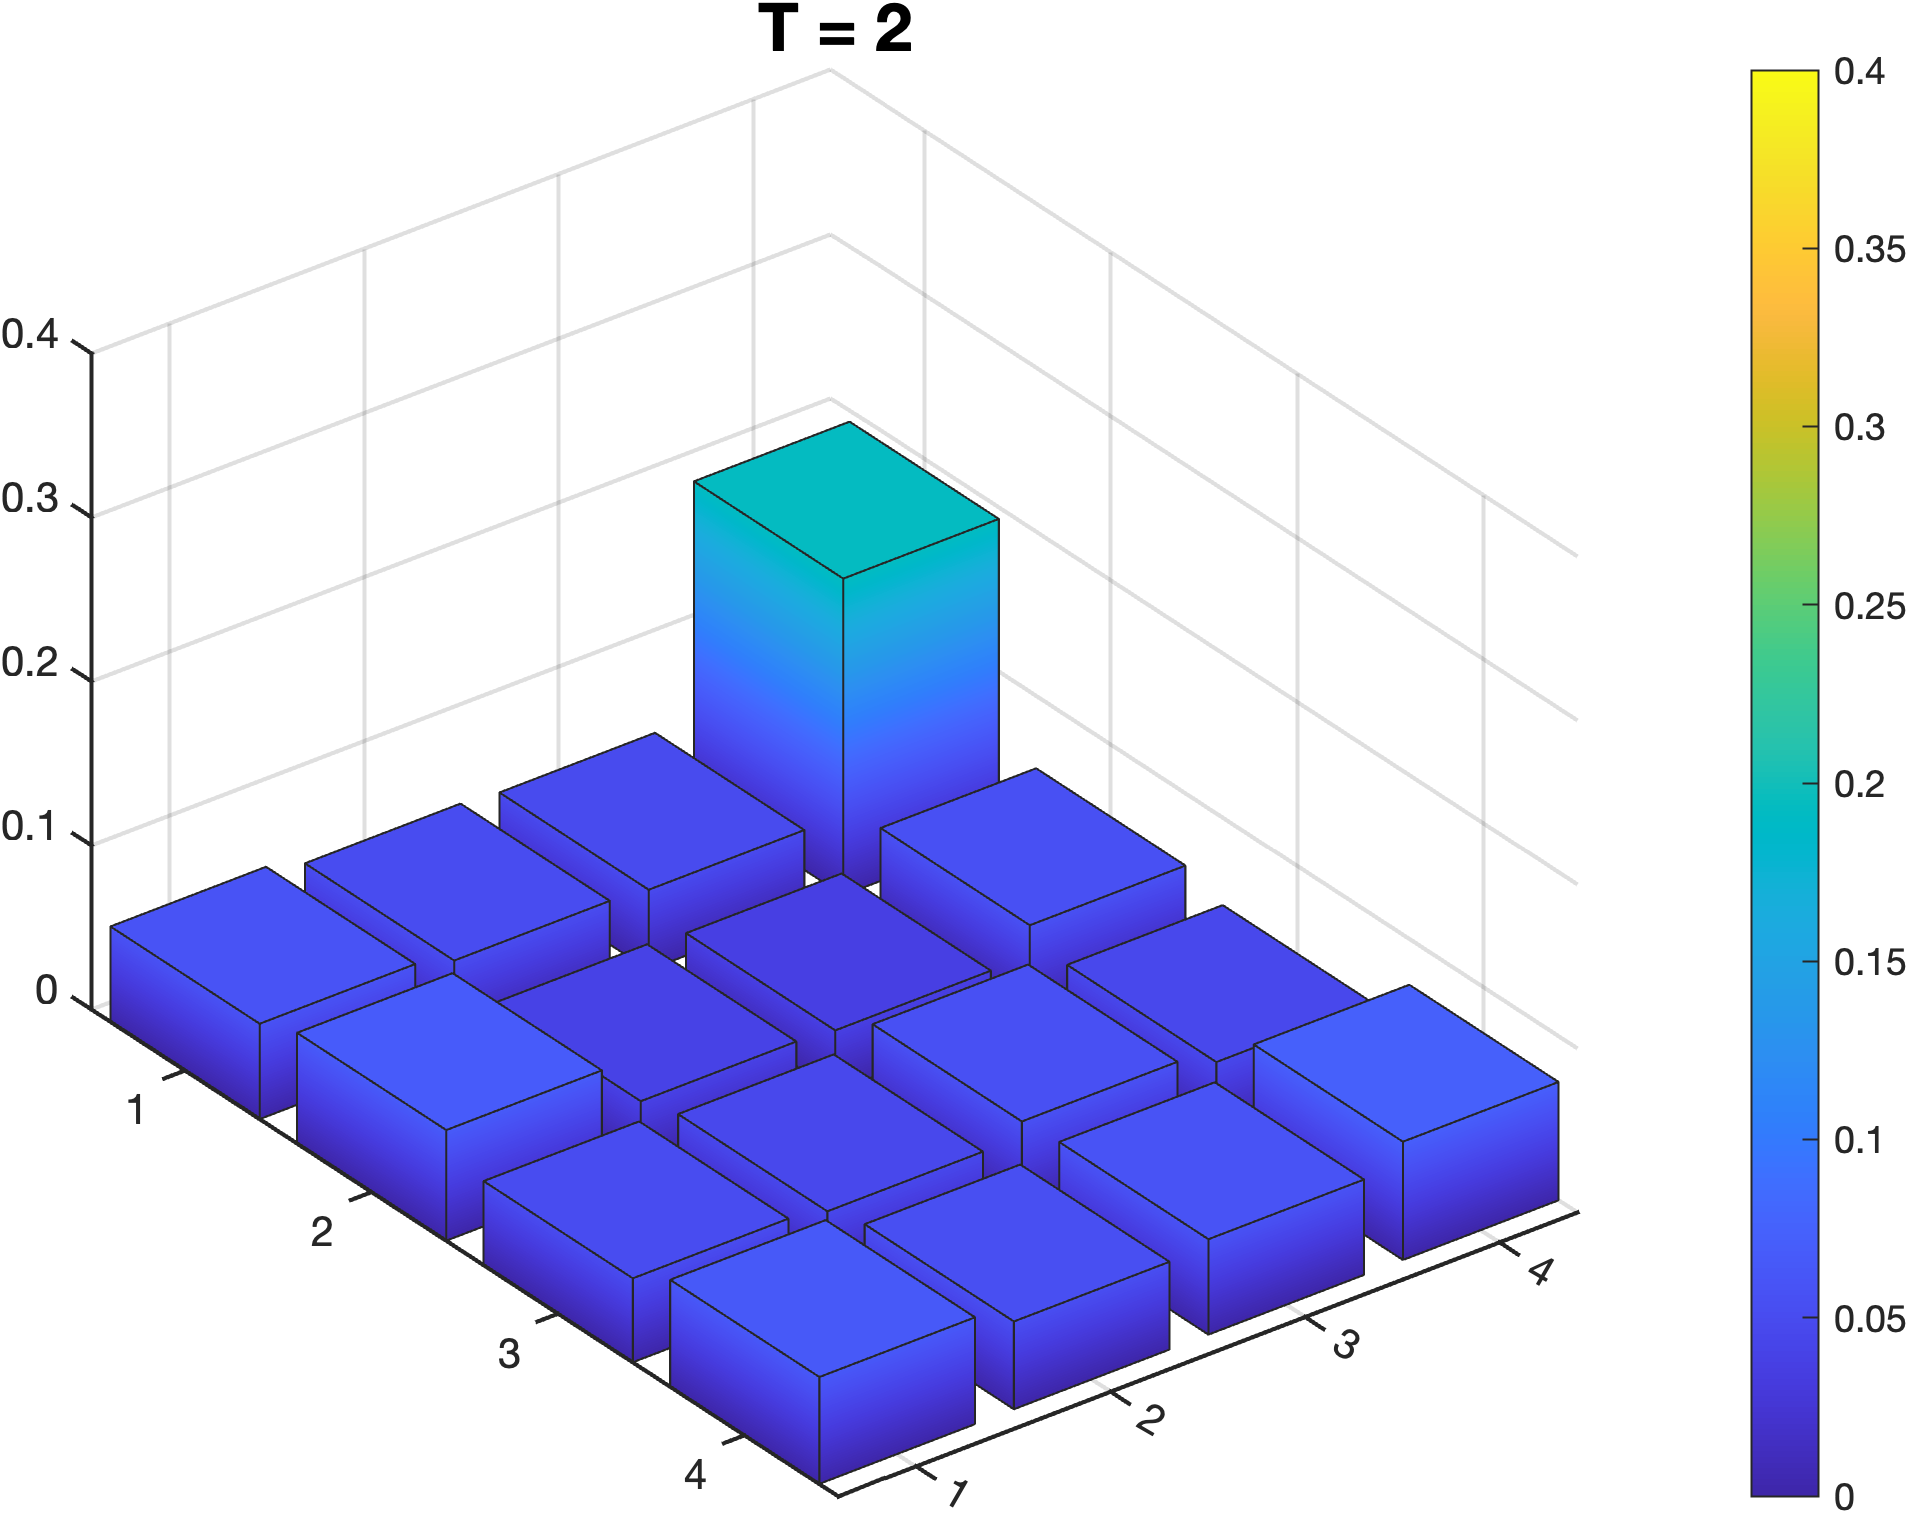
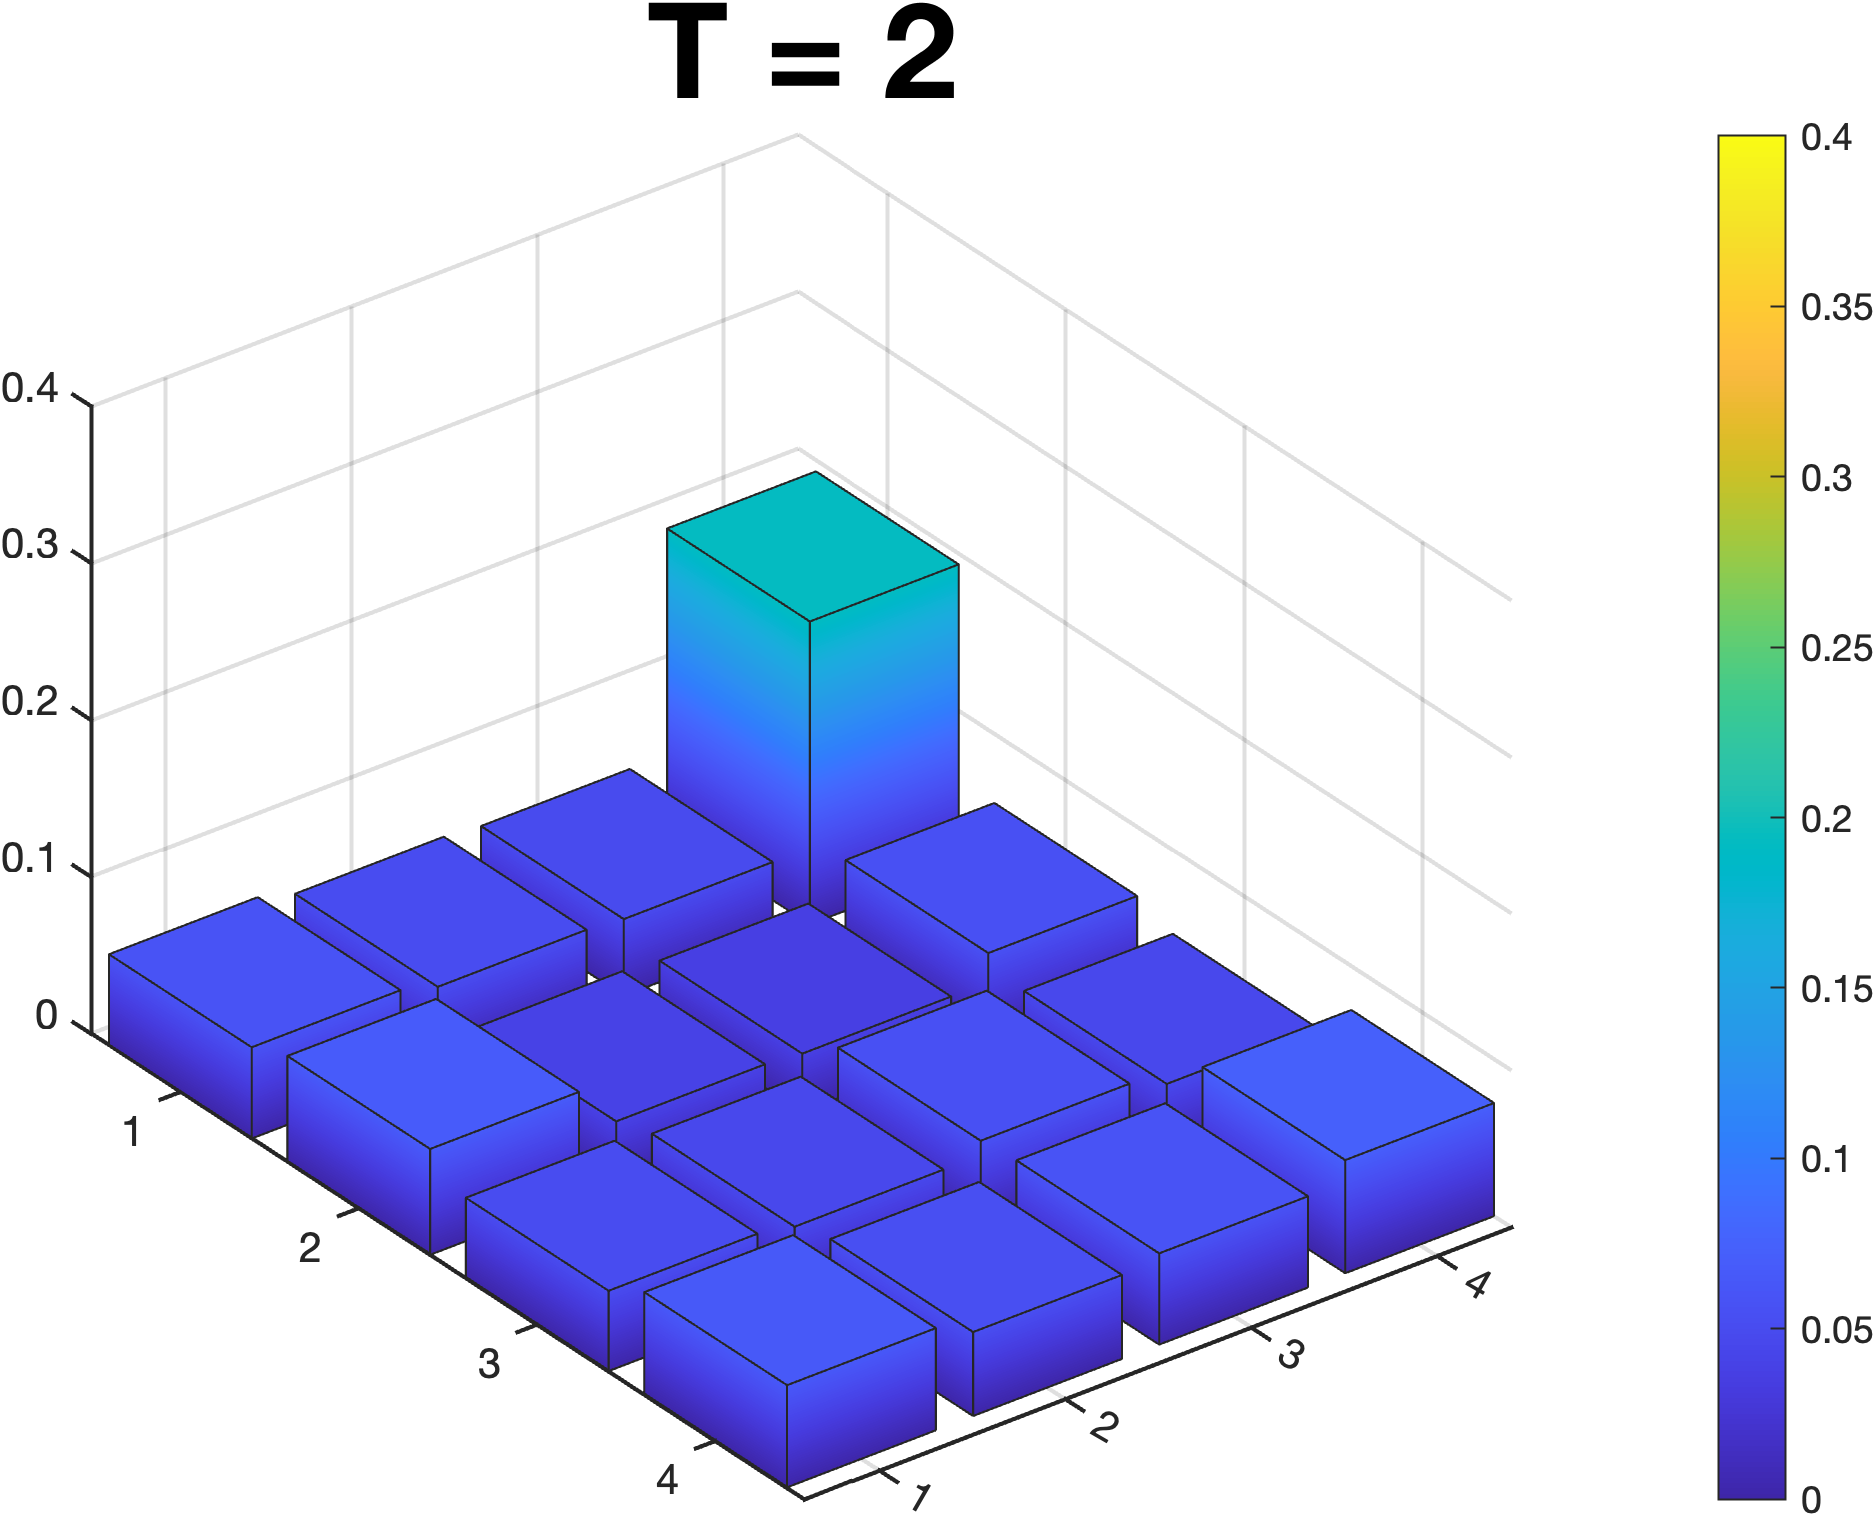
update fig 3-4

diff --git a/spatial_search/4_by_4/plot_4by4.m b/spatial_search/4_by_4/plot_4by4.m
@@ -1,8 +1,9 @@
 load("data.mat")
 
-N = 5;
+N = 4;
 vis_times = [2, 4, 6];
-vis_index = [5, 9, 13];
+vis_index = [3, 6, 8];
+ideal_index = [37, 92, 128];
 
 
 %-- Set default options --%
@@ -14,29 +15,29 @@ set(0,'DefaultAxesFontSize', 10, ...
 
 for i = 1:3
     figure(i);
-    idx = vis_index(i);
+    idx = ideal_index(i);
     time = vis_times(i);
     z_data = reshape(ideal_dist(idx,:), N, N);
     b = bar3(z_data);
-    zlim([0 0.5])    % Set Z-axis range
+    zlim([0 0.6])    % Set Z-axis range
     ax = gca;
     ax.FontSize = 10;
     %ax.XTickLabel = {'|00001\rangle','|00010\rangle','|00100\rangle','|01000\rangle', '|10000\rangle'};
     %ax.YTickLabel = {'|00001\rangle','|00010\rangle','|00100\rangle','|01000\rangle', '|10000\rangle'};
     ax.XTickLabelRotation = -30;
     title_text = sprintf('T = %d', time);
-    title(title_text, 'Fontsize', 16)
+    title(title_text, 'Fontsize', 32)
     
     colormap(summer)
-    clim([0 0.4])
+    clim([0 0.6])
     for k = 1:length(b)
         b(k).CData = b(k).ZData;
         b(k).FaceColor = 'interp';
     end
     colorbar();
     f = gcf;
-    file_name = sprintf("search_5_ideal_%d.png", i);
-    %exportgraphics(f,file_name,'Resolution',300)
+    file_name = sprintf("search_4_ideal_%d.png", i);
+    exportgraphics(f,file_name,'Resolution',300)
 end
 
 
@@ -46,25 +47,25 @@ for i = 1:3
     figure(i);
     idx = vis_index(i);
     time = vis_times(i);
-    z_data = reshape(ionq_freq(idx,:), N, N);
+    z_data = reshape(ionq_freq_normalized(idx,:), N, N);
     b = bar3(z_data);
-    zlim([0 0.3])    % Set Z-axis range
+    zlim([0 0.4])    % Set Z-axis range
     ax = gca;
     ax.FontSize = 10;
     %ax.XTickLabel = {'|00001\rangle','|00010\rangle','|00100\rangle','|01000\rangle', '|10000\rangle'};
     %ax.YTickLabel = {'|00001\rangle','|00010\rangle','|00100\rangle','|01000\rangle', '|10000\rangle'};
     ax.XTickLabelRotation = -30;
     title_text = sprintf('T = %d', time);
-    title(title_text, 'Fontsize', 16)
+    title(title_text, 'Fontsize', 32)
     
     colormap(parula)
-    clim([0 0.15])
+    clim([0 0.4])
     for k = 1:length(b)
         b(k).CData = b(k).ZData;
         b(k).FaceColor = 'interp';
     end
     colorbar();
     f = gcf;
-    file_name = sprintf("search_5_ionq_%d.png", i);
-    %exportgraphics(f,file_name,'Resolution',300)
+    file_name = sprintf("search_4_ionq_%d.png", i);
+    exportgraphics(f,file_name,'Resolution',300)
 end

diff --git a/spatial_search/5_by_5/plot_5by5.m b/spatial_search/5_by_5/plot_5by5.m
@@ -1,9 +1,8 @@
 load("data.mat")
 
-N = 4;
+N = 5;
 vis_times = [2, 4, 6];
-vis_index = [3, 6, 8];
-ideal_index = [37, 92, 128];
+vis_index = [5, 9, 13];
 
 
 %-- Set default options --%
@@ -15,28 +14,28 @@ set(0,'DefaultAxesFontSize', 10, ...
 
 for i = 1:3
     figure(i);
-    idx = ideal_index(i);
+    idx = vis_index(i);
     time = vis_times(i);
     z_data = reshape(ideal_dist(idx,:), N, N);
     b = bar3(z_data);
-    zlim([0 0.6])    % Set Z-axis range
+    zlim([0 0.5])    % Set Z-axis range
     ax = gca;
     ax.FontSize = 10;
     %ax.XTickLabel = {'|00001\rangle','|00010\rangle','|00100\rangle','|01000\rangle', '|10000\rangle'};
     %ax.YTickLabel = {'|00001\rangle','|00010\rangle','|00100\rangle','|01000\rangle', '|10000\rangle'};
     ax.XTickLabelRotation = -30;
     title_text = sprintf('T = %d', time);
-    title(title_text, 'Fontsize', 16)
+    title(title_text, 'Fontsize', 32)
     
     colormap(summer)
-    clim([0 0.6])
+    clim([0 0.4])
     for k = 1:length(b)
         b(k).CData = b(k).ZData;
         b(k).FaceColor = 'interp';
     end
     colorbar();
     f = gcf;
-    file_name = sprintf("search_4_ideal_%d.png", i);
+    file_name = sprintf("search_5_ideal_%d.png", i);
     exportgraphics(f,file_name,'Resolution',300)
 end
 
@@ -47,25 +46,25 @@ for i = 1:3
     figure(i);
     idx = vis_index(i);
     time = vis_times(i);
-    z_data = reshape(ionq_freq_normalized(idx,:), N, N);
+    z_data = reshape(ionq_freq(idx,:), N, N);
     b = bar3(z_data);
-    zlim([0 0.4])    % Set Z-axis range
+    zlim([0 0.3])    % Set Z-axis range
     ax = gca;
     ax.FontSize = 10;
     %ax.XTickLabel = {'|00001\rangle','|00010\rangle','|00100\rangle','|01000\rangle', '|10000\rangle'};
     %ax.YTickLabel = {'|00001\rangle','|00010\rangle','|00100\rangle','|01000\rangle', '|10000\rangle'};
     ax.XTickLabelRotation = -30;
     title_text = sprintf('T = %d', time);
-    title(title_text, 'Fontsize', 16)
+    title(title_text, 'Fontsize', 32)
     
     colormap(parula)
-    clim([0 0.4])
+    clim([0 0.15])
     for k = 1:length(b)
         b(k).CData = b(k).ZData;
         b(k).FaceColor = 'interp';
     end
     colorbar();
     f = gcf;
-    file_name = sprintf("search_4_ionq_%d.png", i);
-    %exportgraphics(f,file_name,'Resolution',300)
+    file_name = sprintf("search_5_ionq_%d.png", i);
+    exportgraphics(f,file_name,'Resolution',300)
 end

diff --git a/plot_spatial_search.py b/plot_spatial_search.py
@@ -7,7 +7,7 @@ from scipy.optimize import curve_fit
 
 
 DATA_DIR = "resource_data"
-TASK_DIR = "spatial_search"
+TASK_DIR = "spatial_search_2d"
 
 CURR_DIR = DATA_DIR
 check_and_make_dir(CURR_DIR)
@@ -155,5 +155,5 @@ plt.xticks(ticks=np.arange(3, 16),
            rotation='horizontal', 
            fontsize=TICK_FONT)
 plt.yticks(fontsize=TICK_FONT)
-#plt.show()
-plt.savefig('spatial_search_2d_resource.png', dpi=300)
+plt.show()
+#plt.savefig('spatial_search_2d_resource.png', dpi=300)

diff --git a/plot_real_space.py b/plot_real_space.py
@@ -140,5 +140,5 @@ plt.ylabel("Number of 2-qubit gates", fontsize=LABEL_FONT)
 plt.xlabel(r"$d$" + " (number of levels in a subsystem)", fontsize=LABEL_FONT)
 plt.xticks(fontsize=TICK_FONT)
 plt.yticks(fontsize=TICK_FONT)
-#plt.show()
-plt.savefig('real_space_resource.png', dpi=300)
+plt.show()
+#plt.savefig('real_space_resource.png', dpi=300)
